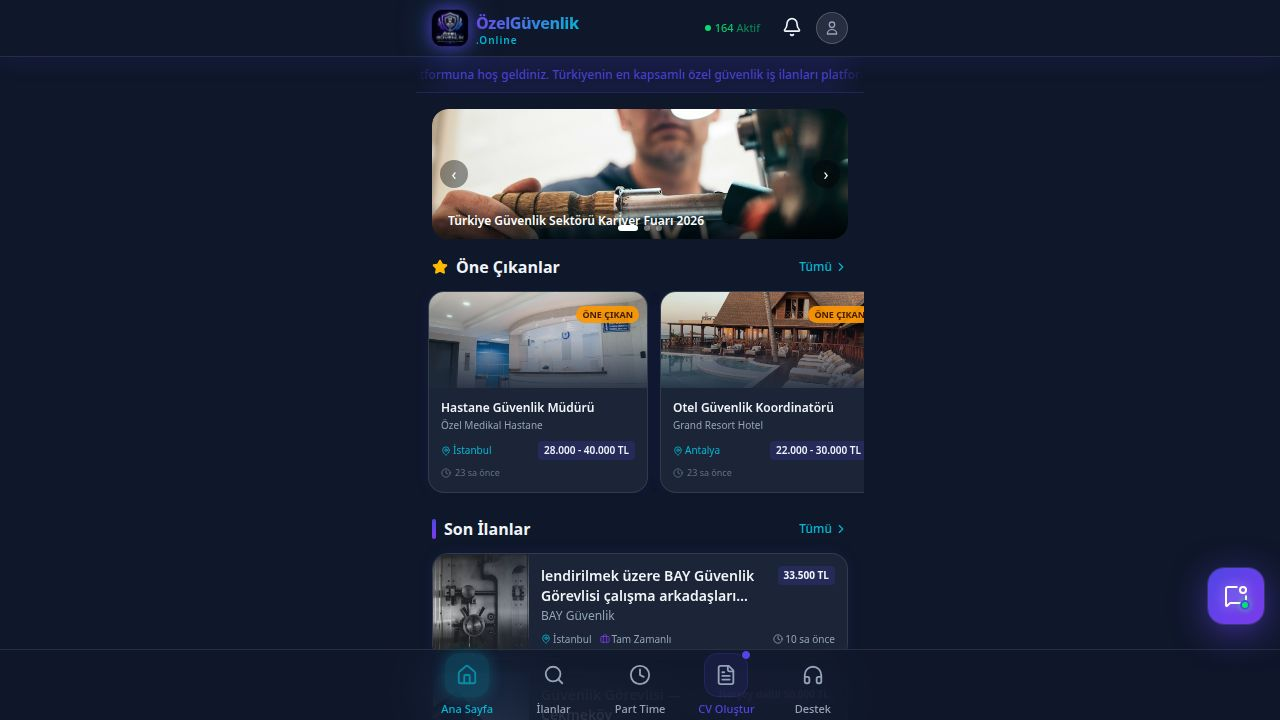
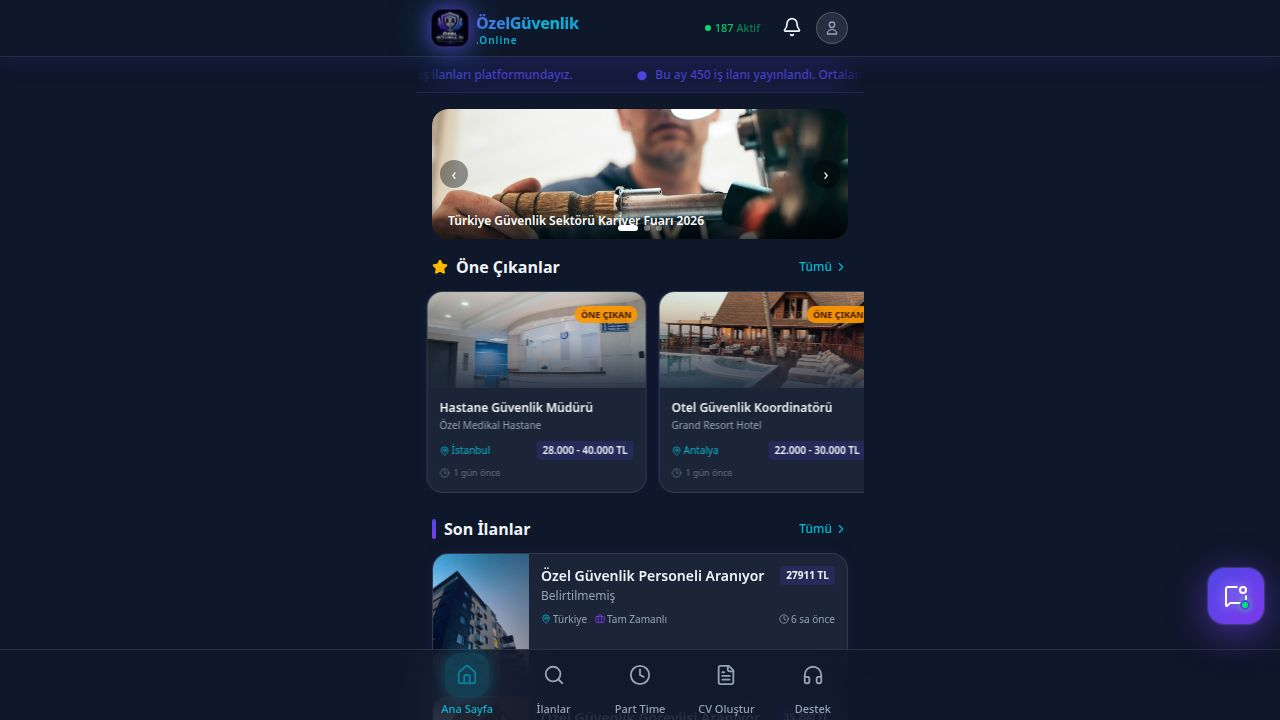
Update application to ensure progressive web app updates correctly
Update service worker and version JSON to reflect the latest application build, ensuring the PWA automatically updates for users.

Replit-Commit-Author: Agent
Replit-Commit-Session-Id: 4cdea2e6-d00a-4730-9c5d-47da9fec826f
Replit-Commit-Checkpoint-Type: full_checkpoint
Replit-Commit-Event-Id: cef83ede-b434-44d0-bbaf-d96d10bf5a76
Replit-Commit-Screenshot-Url: https://storage.googleapis.com/screenshot-production-us-central1/65e8e92a-d1c8-454b-961b-f1bf0231ebd1/4cdea2e6-d00a-4730-9c5d-47da9fec826f/PErZV1p
Replit-Helium-Checkpoint-Created: true

diff --git a/artifacts/ozel-guvenlik/public/sw.js b/artifacts/ozel-guvenlik/public/sw.js
@@ -1,4 +1,4 @@
-const CACHE_NAME = "ozelguvenlik-" + Date.now();
+const CACHE_NAME = "ozelguvenlik-1780546908772";
 
 self.addEventListener("install", () => self.skipWaiting());
 